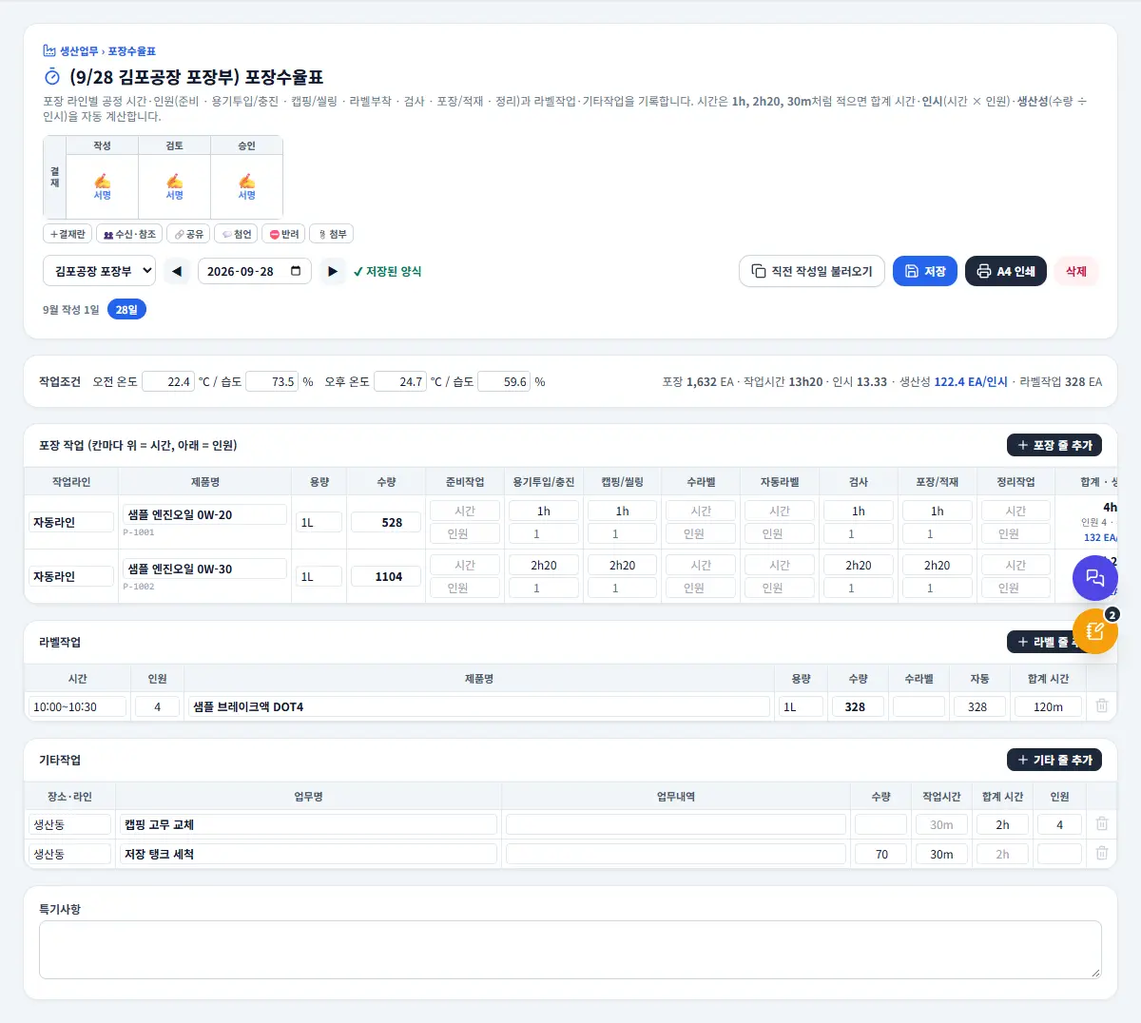
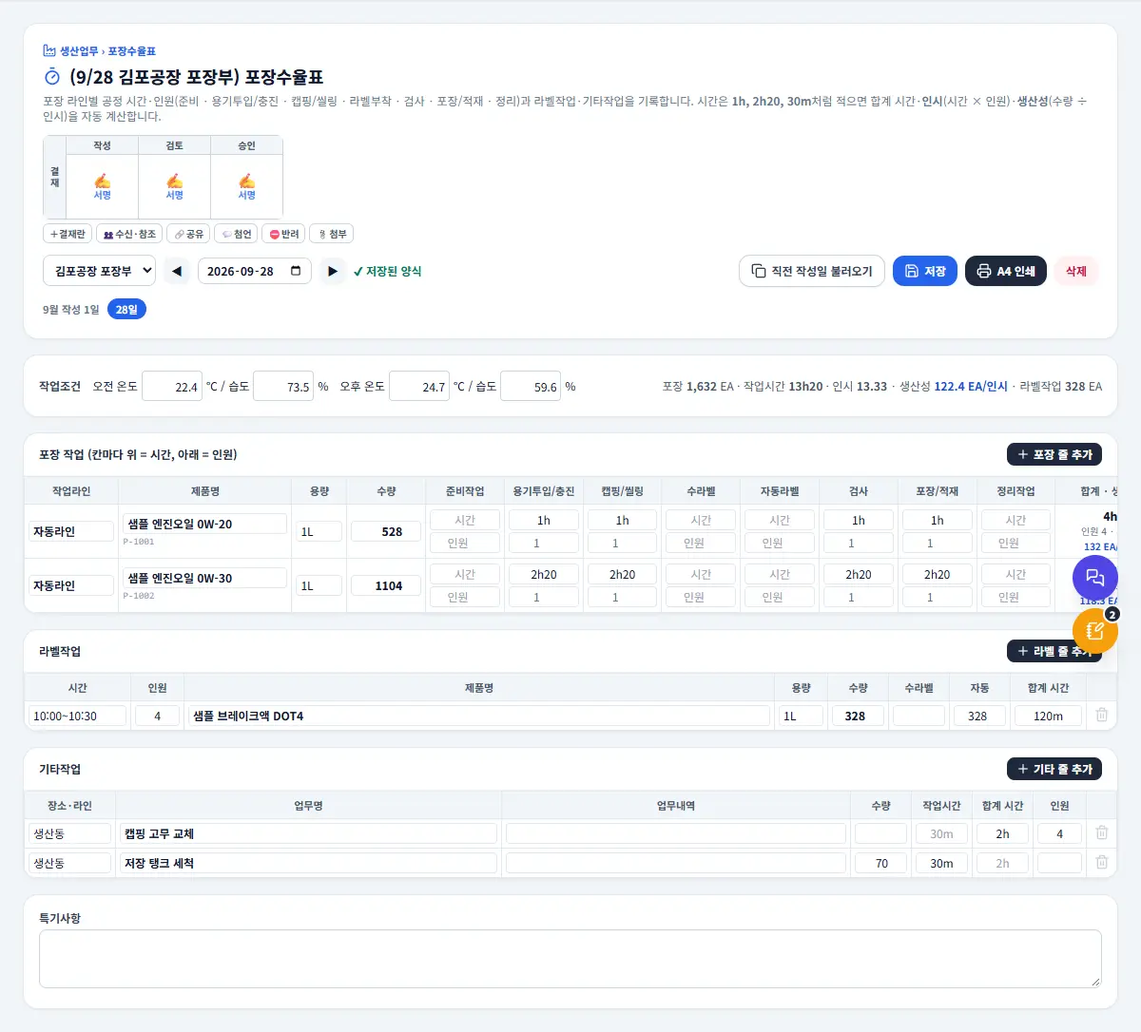
feat: 초·중·종물 검사·포장수율표 스마트폰·태블릿 화면 (카드 배치·큰 입력 칸·아래 고정 저장)

diff --git a/src/components/WorkForms.js b/src/components/WorkForms.js
@@ -20,6 +20,11 @@ const STEPS = [['prep', '준비작업'], ['fill', '용기투입/충진'], ['cap'
 const uid = () => `${Date.now().toString(36)}${Math.random().toString(36).slice(2, 6)}`;
 const dayAdd = (d, n) => { const t = new Date(`${d}T00:00:00`); t.setDate(t.getDate() + n); return localDateStr(t); };
 const inCls = 'w-full bg-white border border-slate-200 rounded px-1 py-0.5 text-xs focus:ring-2 focus:ring-blue-500 focus:outline-none';
+// 스마트폰·태블릿(폭 1024px 미만): 손가락으로 누르기 쉬운 큰 입력 칸 + 카드 배치
+const MOBILE_MQ = '(max-width: 1023px)';
+const mCls = 'w-full h-10 bg-white border border-slate-300 rounded-lg px-2 text-sm focus:ring-2 focus:ring-blue-500 focus:outline-none';
+const MW = 'flex items-center'; // 중량 칸 틀
+const mField = (label, inner, cls = '') => `<label class="block ${cls}"><span class="block text-[11px] font-bold text-slate-500 mb-0.5">${label}</span>${inner}</label>`;
 const numVal = (v) => (v === '' || v === null || v === undefined ? '' : Number(v));
 // data-k 경로('w.init.0')로 값 넣기
 const setPath = (obj, path, val) => {
@@ -62,7 +67,7 @@ const renderFormShell = (container, { showToast = () => {} } = {}, cfg) => {
                 <div class="min-w-0">
                     <div class="text-[11px] font-black text-blue-600 flex items-center gap-1"><i data-lucide="factory" class="w-3.5 h-3.5"></i>생산업무 › ${esc(title)}</div>
                     <h2 class="text-lg font-black text-slate-900 mt-1 flex items-center gap-2"><i data-lucide="${cfg.icon}" class="w-5 h-5 text-blue-600"></i><span id="wf-title"></span></h2>
-                    <p class="text-xs text-slate-500 mt-1">${cfg.desc}</p>
+                    <p class="hidden md:block text-xs text-slate-500 mt-1">${cfg.desc}</p>
                 </div>
                 <div id="wf-appr"></div>
             </div>
@@ -80,7 +85,11 @@ const renderFormShell = (container, { showToast = () => {} } = {}, cfg) => {
             </div>
             <div id="wf-dates" class="flex flex-wrap gap-1"></div>
         </div>
-        <div id="wf-body" class="space-y-4"></div>
+        <div id="wf-body" class="space-y-4 pb-20 lg:pb-0"></div>
+        ${canWrite ? `<div id="wf-mbar" class="lg:hidden fixed bottom-0 inset-x-0 z-30 bg-white/95 backdrop-blur border-t border-slate-200 px-3 py-2 pr-24 flex items-center gap-2 shadow-[0_-4px_12px_rgba(0,0,0,0.06)]">
+            <span data-bar-state class="text-xs font-bold whitespace-nowrap"></span>
+            <button type="button" data-bar-save class="flex-1 h-11 rounded-xl text-sm font-black text-white bg-blue-600">💾 저장</button>
+        </div>` : ''}
     </section>`;
     const $ = (s) => container.querySelector(s);
 
@@ -94,8 +103,15 @@ const renderFormShell = (container, { showToast = () => {} } = {}, cfg) => {
         $('#wf-dates').innerHTML = `<span class="text-[11px] text-slate-500 font-bold mr-1 self-center">${Number(ym.slice(5))}월 작성 ${inMonth.length}일</span>` + inMonth.slice().reverse().map(d => `<button type="button" data-d="${d}" class="px-2 py-0.5 rounded-full text-[11px] font-bold border ${d === date ? 'bg-blue-600 border-blue-600 text-white' : 'bg-white border-slate-300 text-slate-600 hover:border-slate-500'}">${Number(d.slice(8))}일</button>`).join('');
         container.querySelectorAll('#wf-dates [data-d]').forEach(b => b.addEventListener('click', () => go(b.dataset.d)));
     };
-    const markDirty = () => { if (!dirty) { dirty = true; paintHead(); } };
-    const api = { markDirty, get doc() { return doc; }, rerender: () => draw(), showToast, canWrite, get site() { return site; }, get date() { return date; } };
+    const markDirty = () => { if (!dirty) { dirty = true; paintHead(); } paintBar(); };
+    // 스마트폰·태블릿 아래쪽 고정 저장 줄 (저장 안 한 변경이 있으면 강조)
+    const paintBar = () => {
+        const bar = $('#wf-mbar');
+        if (!bar) return;
+        bar.querySelector('[data-bar-state]').innerHTML = dirty ? '<span class="text-rose-600">● 저장 안 한 변경</span>' : exists ? '<span class="text-emerald-700">✔ 저장됨</span>' : '<span class="text-amber-700">새 양식</span>';
+        bar.querySelector('[data-bar-save]').className = `flex-1 h-11 rounded-xl text-sm font-black text-white ${dirty ? 'bg-blue-600 animate-pulse' : 'bg-blue-600/80'}`;
+    };
+    const api = { markDirty, get doc() { return doc; }, rerender: () => draw(), showToast, canWrite, get site() { return site; }, get date() { return date; }, get mobile() { return window.matchMedia(MOBILE_MQ).matches; } };
     const draw = () => {
         // 다시 그릴 때마다 새 요소에 그린다 (입력 이벤트가 겹쳐 붙지 않게)
         const holder = document.createElement('div');
@@ -104,6 +120,7 @@ const renderFormShell = (container, { showToast = () => {} } = {}, cfg) => {
         cfg.body(holder, doc, api);
         if (!canWrite) holder.querySelectorAll('input, select, textarea').forEach(el => { el.disabled = true; });
         paintHead();
+        paintBar();
         mountApprovalBox($('#wf-appr'), apprDoc(), { showToast });
         createIcons({ icons });
     };
@@ -155,6 +172,11 @@ const renderFormShell = (container, { showToast = () => {} } = {}, cfg) => {
         } catch (err) { alert(err.message); }
         e.target.disabled = false;
     });
+    $('#wf-mbar [data-bar-save]')?.addEventListener('click', () => $('#wf-save')?.click());
+    // 화면 폭이 스마트폰·태블릿 ↔ PC로 바뀌면(가로·세로 돌리기 포함) 배치를 다시 그린다 (입력한 내용은 doc에 있어 그대로)
+    const mq = window.matchMedia(MOBILE_MQ);
+    const onMq = () => { if (!container.contains($('#wf-body'))) { mq.removeEventListener('change', onMq); return; } if (doc) draw(); };
+    mq.addEventListener('change', onMq);
     $('#wf-print').addEventListener('click', () => cfg.print(doc, { site, date, title, approvals: apprDoc().roles, approvalKey: apprDoc().key }));
     $('#wf-del')?.addEventListener('click', async () => {
         if (!exists) { alert('저장된 양식이 없습니다.'); return; }
@@ -222,13 +244,48 @@ export const renderInspectLog = (container, opts = {}) => {
                 const s = sums();
                 host.querySelector('#il-sum').innerHTML = `작업 ${doc.rows.length}건 · 양품 <b>${fmtQty(s.good)}</b>${s.box ? ` (${fmtQty(s.box)} BOX)` : ''} · 불량 <b class="${s.def ? 'text-rose-600' : ''}">${fmtQty(s.def)}</b> · 중량 이탈 <b class="${s.out ? 'text-rose-600' : 'text-emerald-700'}">${s.out}</b>회 · 상태 NG <b class="${s.ng ? 'text-rose-600' : 'text-emerald-700'}">${s.ng}</b>`;
             };
+            // 스마트폰·태블릿: 작업 한 건 = 카드 한 장 (입력 칸 data-r/data-k는 표와 같아 입력 처리 공용)
+            const mobileRows = () => `<div class="p-3 space-y-3 bg-slate-50">${doc.rows.map((r, ri) => `
+                <div class="bg-white rounded-2xl border border-slate-200 shadow-sm p-3 space-y-3">
+                    <div class="flex items-center justify-between"><b class="text-sm text-slate-900">작업 ${ri + 1}${r.product ? ` · ${esc(r.product)}` : ''}</b>${api.canWrite ? `<button type="button" data-del="${ri}" class="px-2.5 py-1.5 rounded-lg bg-rose-50 text-rose-600 text-xs font-bold">삭제</button>` : ''}</div>
+                    <div class="grid grid-cols-2 gap-2">
+                        ${mField('라인명', `<input data-r="${ri}" data-k="line" value="${esc(r.line)}" placeholder="자동라인" class="${mCls} font-bold" />`)}
+                        ${mField('작업시간', `<input data-r="${ri}" data-k="time" value="${esc(r.time)}" placeholder="9:00~10:00" class="${mCls}" />`)}
+                        ${mField('작업자', `<input data-r="${ri}" data-k="workers" value="${esc(r.workers)}" placeholder="이름, 이름" class="${mCls}" />`, 'col-span-2')}
+                        ${mField('제품명 (검색)', `<input data-r="${ri}" data-k="product" value="${esc(r.product)}" placeholder="제품 검색" class="il-prod ${mCls} font-bold" /><span class="text-[10px] text-slate-400 font-mono">${esc(r.itemCode || '')}</span>`, 'col-span-2')}
+                        ${mField('용량', `<input data-r="${ri}" data-k="cap" value="${esc(r.cap)}" placeholder="1L" class="${mCls}" />`)}
+                        ${mField('비중', `<input type="number" inputmode="decimal" step="0.001" data-r="${ri}" data-k="sg" value="${esc(r.sg)}" class="${mCls} text-right" />`)}
+                        ${mField('원료(원액)명', `<input data-r="${ri}" data-k="rawName" value="${esc(r.rawName)}" class="${mCls}" />`)}
+                        ${mField('원료 Lot', `<input data-r="${ri}" data-k="rawLot" value="${esc(r.rawLot)}" class="${mCls} font-mono" />`)}
+                        ${mField('기준중량(g) · 자동', `<input type="number" inputmode="decimal" step="0.1" data-r="${ri}" data-k="std" value="${esc(r.std)}" class="${mCls} text-right font-black" />`, 'col-span-2')}
+                    </div>
+                    <div class="rounded-xl border border-slate-200 overflow-hidden">
+                        <div class="grid grid-cols-[52px_1fr_1fr_1fr_70px] bg-slate-100 text-[11px] font-bold text-slate-600 text-center"><span class="py-1.5">구분</span><span class="py-1.5">1회</span><span class="py-1.5">2회</span><span class="py-1.5">3회</span><span class="py-1.5">상태</span></div>
+                        ${STAGES.map(([st, lb]) => `<div class="grid grid-cols-[52px_1fr_1fr_1fr_70px] border-t border-slate-100 items-stretch">
+                            <span class="flex items-center justify-center text-xs font-black bg-slate-50">${lb}</span>
+                            ${[0, 1, 2].map(i => `<span data-wcell="${ri}-${st}-${i}" data-base="border-l border-slate-100 ${MW}" class="border-l border-slate-100 ${MW} ${cellCls(r, st, i)}"><input type="number" inputmode="decimal" step="0.1" data-r="${ri}" data-k="w.${st}.${i}" value="${esc(r.w?.[st]?.[i] ?? '')}" placeholder="g" class="w-full h-11 m-0.5 rounded-md bg-slate-50/70 border border-slate-200 px-1 text-center text-base font-bold placeholder:text-slate-300 focus:outline-none focus:ring-2 focus:ring-blue-500" /></span>`).join('')}
+                            <span class="border-l border-slate-100 p-1"><select data-r="${ri}" data-k="st.${st}" data-base="w-full h-9 rounded-lg border border-slate-300 bg-white text-sm" class="w-full h-9 rounded-lg border border-slate-300 bg-white text-sm font-bold ${r.st?.[st] === 'NG' ? 'text-rose-600' : 'text-emerald-700'}"><option ${r.st?.[st] !== 'NG' ? 'selected' : ''}>OK</option><option ${r.st?.[st] === 'NG' ? 'selected' : ''}>NG</option></select></span>
+                        </div>`).join('')}
+                    </div>
+                    <div class="grid grid-cols-2 gap-2">
+                        ${mField('제품 Lot', `<input data-r="${ri}" data-k="prodLot" value="${esc(r.prodLot)}" class="${mCls} font-mono" />`, 'col-span-2')}
+                        ${mField('양품', `<input type="number" inputmode="numeric" min="0" data-r="${ri}" data-k="good" value="${esc(r.good)}" class="${mCls} text-right font-black" />`)}
+                        ${mField('BOX', `<input type="number" inputmode="numeric" min="0" data-r="${ri}" data-k="box" value="${esc(r.box)}" class="${mCls} text-right" />`)}
+                        ${mField('불량', `<input type="number" inputmode="numeric" min="0" data-r="${ri}" data-k="defect" value="${esc(r.defect)}" class="${mCls} text-right font-black text-rose-600" />`)}
+                        ${mField('불량 유형', `<input data-r="${ri}" data-k="defectType" list="il-types" value="${esc(r.defectType)}" class="${mCls}" />`)}
+                    </div>
+                    ${r.qcId ? '<div class="text-[11px] text-rose-600 font-bold">공정 불량 기록 ✔</div>' : ''}
+                </div>`).join('')}
+                ${api.canWrite ? '<button type="button" data-add-bottom class="w-full py-3 rounded-2xl border-2 border-dashed border-slate-300 text-slate-600 font-black text-sm">＋ 작업 추가</button>' : ''}
+            </div>`;
             host.innerHTML = `
             <div class="bg-white rounded-2xl border border-slate-200 shadow-sm overflow-hidden">
                 <div class="px-4 py-2.5 border-b border-slate-100 flex flex-wrap items-center gap-3 text-xs">
                     <span id="il-sum" class="text-slate-600"></span>
-                    <label class="ml-auto flex items-center gap-1 font-bold text-slate-600">허용 범위 기준중량 ± <input type="number" min="0" step="0.1" id="il-tol" value="${tol}" class="w-14 border border-slate-300 rounded px-1 py-0.5 text-right" />%</label>
+                    <label class="ml-auto flex items-center gap-1 font-bold text-slate-600">허용 범위 기준중량 ± <input type="number" inputmode="decimal" min="0" step="0.1" id="il-tol" value="${tol}" inputmode="decimal" class="w-16 h-8 border border-slate-300 rounded px-1 text-right" />%</label>
                     ${api.canWrite ? addRowBtn('il-add', '작업 줄 추가') : ''}
                 </div>
+                ${api.mobile ? `${mobileRows()}<span id="il-tol-h" class="hidden">${tol}</span>` : `
                 <div class="overflow-x-auto">
                 <table class="w-full text-xs min-w-[1500px] border-collapse">
                     <thead class="bg-slate-100 text-slate-600 text-[11px]"><tr>
@@ -253,15 +310,15 @@ export const renderInspectLog = (container, opts = {}) => {
                         <td class="p-1 border border-slate-200 align-middle" rowspan="3"><input type="number" step="0.001" data-r="${ri}" data-k="sg" value="${esc(r.sg)}" class="${inCls} text-right" /></td>
                         <td class="p-1 border border-slate-200 align-middle" rowspan="3"><input type="number" step="0.1" data-r="${ri}" data-k="std" value="${esc(r.std)}" class="${inCls} text-right font-black" title="비중·용량을 넣으면 자동 계산 (직접 고칠 수 있음)" /></td>` : ''}
                         <td class="p-1 border border-slate-200 text-center font-bold bg-slate-50">${stLabel}</td>
-                        ${[0, 1, 2].map(i => `<td class="p-0.5 border border-slate-200 ${cellCls(r, st, i)}" data-wcell="${ri}-${st}-${i}"><input type="number" step="0.1" data-r="${ri}" data-k="w.${st}.${i}" value="${esc(r.w?.[st]?.[i] ?? '')}" class="w-full bg-transparent px-1 py-0.5 text-right text-xs focus:outline-none" /></td>`).join('')}
-                        <td class="p-0.5 border border-slate-200"><select data-r="${ri}" data-k="st.${st}" class="${inCls} font-bold ${r.st?.[st] === 'NG' ? 'text-rose-600' : 'text-emerald-700'}"><option ${r.st?.[st] !== 'NG' ? 'selected' : ''}>OK</option><option ${r.st?.[st] === 'NG' ? 'selected' : ''}>NG</option></select></td>
+                        ${[0, 1, 2].map(i => `<td class="p-0.5 border border-slate-200 ${cellCls(r, st, i)}" data-base="p-0.5 border border-slate-200" data-wcell="${ri}-${st}-${i}"><input type="number" step="0.1" data-r="${ri}" data-k="w.${st}.${i}" value="${esc(r.w?.[st]?.[i] ?? '')}" class="w-full bg-transparent px-1 py-0.5 text-right text-xs focus:outline-none" /></td>`).join('')}
+                        <td class="p-0.5 border border-slate-200"><select data-r="${ri}" data-k="st.${st}" data-base="${inCls}" class="${inCls} font-bold ${r.st?.[st] === 'NG' ? 'text-rose-600' : 'text-emerald-700'}"><option ${r.st?.[st] !== 'NG' ? 'selected' : ''}>OK</option><option ${r.st?.[st] === 'NG' ? 'selected' : ''}>NG</option></select></td>
                         ${si === 0 ? `
                         <td class="p-1 border border-slate-200 align-middle" rowspan="3"><input data-r="${ri}" data-k="prodLot" value="${esc(r.prodLot)}" class="${inCls} font-mono" /></td>
                         <td class="p-1 border border-slate-200 align-middle space-y-1" rowspan="3"><input type="number" min="0" data-r="${ri}" data-k="good" value="${esc(r.good)}" placeholder="양품" class="${inCls} text-right font-black" /><div class="flex items-center gap-1"><input type="number" min="0" data-r="${ri}" data-k="box" value="${esc(r.box)}" placeholder="BOX" class="${inCls} text-right" /><span class="text-[10px] text-slate-400">BOX</span></div></td>
                         <td class="p-1 border border-slate-200 align-middle space-y-1" rowspan="3"><input type="number" min="0" data-r="${ri}" data-k="defect" value="${esc(r.defect)}" placeholder="불량" class="${inCls} text-right font-black text-rose-600" /><input data-r="${ri}" data-k="defectType" list="il-types" value="${esc(r.defectType)}" placeholder="불량 유형" class="${inCls}" />${r.qcId ? '<div class="text-[10px] text-rose-600 font-bold">공정 불량 기록 ✔</div>' : ''}</td>
                         <td class="p-1 border border-slate-200 text-center align-middle" rowspan="3">${api.canWrite ? `<button type="button" data-del="${ri}" class="text-slate-300 hover:text-rose-600" title="줄 삭제"><i data-lucide="trash-2" class="w-4 h-4"></i></button>` : ''}</td>` : ''}
                     </tr>`).join('')).join('')}</tbody>
-                </table></div>
+                </table></div>`}
                 <datalist id="il-types">${defectTypes.map(t => `<option value="${esc(t)}"></option>`).join('')}</datalist>
             </div>
             <div class="bg-white p-4 rounded-2xl border border-slate-200 shadow-sm">
@@ -276,9 +333,9 @@ export const renderInspectLog = (container, opts = {}) => {
                     if (std !== '') { r.std = std; const stdEl = host.querySelector(`[data-r="${ri}"][data-k="std"]`); if (stdEl) stdEl.value = std; }
                 }
                 if (key.startsWith('w.') || key === 'sg' || key === 'cap' || key === 'std') {
-                    STAGES.forEach(([st]) => [0, 1, 2].forEach(i => { const c = host.querySelector(`[data-wcell="${ri}-${st}-${i}"]`); if (c) c.className = `p-0.5 border border-slate-200 ${cellCls(r, st, i)}`; }));
+                    STAGES.forEach(([st]) => [0, 1, 2].forEach(i => { const c = host.querySelector(`[data-wcell="${ri}-${st}-${i}"]`); if (c) c.className = `${c.dataset.base} ${cellCls(r, st, i)}`; }));
                 }
-                if (key.startsWith('st.')) el.className = `${inCls} font-bold ${el.value === 'NG' ? 'text-rose-600' : 'text-emerald-700'}`;
+                if (key.startsWith('st.')) el.className = `${el.dataset.base} font-bold ${el.value === 'NG' ? 'text-rose-600' : 'text-emerald-700'}`;
                 paintSums();
                 api.markDirty();
             });
@@ -292,7 +349,14 @@ export const renderInspectLog = (container, opts = {}) => {
             }, (it) => it.category === '완제품' || !it.category));
             host.querySelector('#il-tol').addEventListener('input', (e) => { doc.tol = Number(e.target.value) || 0; host.querySelector('#il-tol-h').textContent = doc.tol; api.markDirty(); api.rerender(); });
             host.querySelector('#il-remarks').addEventListener('input', (e) => { doc.remarks = e.target.value; api.markDirty(); });
-            host.querySelector('#il-add')?.addEventListener('click', () => { doc.rows.push(blankInspectRow(doc.rows[doc.rows.length - 1])); api.markDirty(); api.rerender(); });
+            const addRow = () => { doc.rows.push(blankInspectRow(doc.rows[doc.rows.length - 1])); api.markDirty(); api.rerender(); };
+            host.querySelector('#il-add')?.addEventListener('click', addRow);
+            host.querySelector('[data-add-bottom]')?.addEventListener('click', () => {
+                addRow();
+                // 새 카드로 스크롤
+                const cards = document.querySelectorAll('#wf-body [data-k="line"]');
+                cards[cards.length - 1]?.scrollIntoView({ behavior: 'smooth', block: 'start' });
+            });
             host.querySelectorAll('[data-del]').forEach(b => b.addEventListener('click', () => {
                 const r = doc.rows[Number(b.dataset.del)];
                 if (!confirm(`이 작업 줄(${r.product || '제품 없음'})을 지울까요?${r.qcId ? '\n저장하면 연결된 공정 불량 기록도 지워집니다.' : ''}`)) return;
@@ -385,16 +449,63 @@ export const renderYieldLog = (container, opts = {}) => {
                 });
             };
             const inp = (k, ri, v, extra = '', cls = '') => `<input data-r="${ri}" data-k="${k}" value="${esc(v ?? '')}" ${extra} class="${inCls} ${cls}" />`;
-            host.innerHTML = `
+            // 스마트폰·태블릿용 큰 입력 칸 (data-r/data-k는 표와 같음)
+            const mi = (k, ri, v, extra = '', cls = '') => `<input data-r="${ri}" data-k="${k}" value="${esc(v ?? '')}" ${extra} class="${mCls} ${cls}" />`;
+            const delBtn = (sec, ri) => (api.canWrite ? `<button type="button" data-del="${sec}:${ri}" class="px-2.5 py-1.5 rounded-lg bg-rose-50 text-rose-600 text-xs font-bold">삭제</button>` : '');
+            const addBottom = (sec, label) => (api.canWrite ? `<button type="button" data-add-sec="${sec}" class="w-full py-3 rounded-2xl border-2 border-dashed border-slate-300 text-slate-600 font-black text-sm">＋ ${label}</button>` : '');
+            const packCards = () => `<div class="p-3 space-y-3 bg-slate-50">${doc.pack.map((r, ri) => `
+                <div class="bg-white rounded-2xl border border-slate-200 shadow-sm p-3 space-y-3">
+                    <div class="flex items-center justify-between"><b class="text-sm text-slate-900">포장 ${ri + 1}${r.product ? ` · ${esc(r.product)}` : ''}</b>${delBtn('pack', ri)}</div>
+                    <div class="grid grid-cols-2 gap-2">
+                        ${mField('작업라인', mi('line', ri, r.line, 'placeholder="자동라인"', 'font-bold'))}
+                        ${mField('수량', mi('qty', ri, r.qty, 'type="number" inputmode="numeric" min="0"', 'text-right font-black'))}
+                        ${mField('제품명 (검색)', `${mi('product', ri, r.product, 'placeholder="제품 검색"', 'yl-prod font-bold')}<span class="text-[10px] text-slate-400 font-mono">${esc(r.itemCode || '')}</span>`, 'col-span-2')}
+                        ${mField('용량', mi('cap', ri, r.cap))}
+                    </div>
+                    <div class="rounded-xl border border-slate-200 overflow-hidden">
+                        <div class="grid grid-cols-[1fr_96px_64px] bg-slate-100 text-[11px] font-bold text-slate-600"><span class="px-2 py-1.5">공정</span><span class="py-1.5 text-center">시간</span><span class="py-1.5 text-center">인원</span></div>
+                        ${STEPS.map(([k, l]) => `<div class="grid grid-cols-[1fr_96px_64px] border-t border-slate-100 items-center">
+                            <span class="px-2 text-xs font-bold text-slate-700">${l}</span>
+                            <span class="p-1"><input data-r="${ri}" data-k="steps.${k}.t" value="${esc(r.steps?.[k]?.t ?? '')}" list="yl-times" placeholder="1h20" class="w-full h-10 border border-slate-300 rounded-lg px-1 text-center text-sm" /></span>
+                            <span class="p-1"><input type="number" inputmode="numeric" min="0" data-r="${ri}" data-k="steps.${k}.p" value="${esc(r.steps?.[k]?.p ?? '')}" class="w-full h-10 border border-slate-300 rounded-lg px-1 text-center text-sm" /></span>
+                        </div>`).join('')}
+                    </div>
+                    <div class="p-2 rounded-xl bg-blue-50 text-center text-sm" data-tot="${ri}"></div>
+                    ${mField('비고', `<textarea data-r="${ri}" data-k="note" rows="2" class="w-full border border-slate-300 rounded-lg px-2 py-1.5 text-sm" placeholder="예: 라벨 인쇄 불량 10EA">${esc(r.note || '')}</textarea>`)}
+                </div>`).join('')}${addBottom('pack', '포장 작업 추가')}</div>`;
+            const labelCards = () => `<div class="p-3 space-y-3 bg-slate-50">${doc.label.map((r, ri) => `
+                <div class="bg-white rounded-2xl border border-slate-200 shadow-sm p-3 space-y-2">
+                    <div class="flex items-center justify-between"><b class="text-sm text-slate-900">라벨 ${ri + 1}</b>${delBtn('label', ri)}</div>
+                    <div class="grid grid-cols-2 gap-2">
+                        ${mField('시간', mi('time', ri, r.time, 'placeholder="10:00~10:30"'))}${mField('인원', mi('people', ri, r.people, 'type="number" inputmode="numeric" min="0"', 'text-right'))}
+                        ${mField('제품명 (검색)', mi('product', ri, r.product, 'placeholder="제품 검색"', 'yl-lprod font-bold'), 'col-span-2')}
+                        ${mField('용량', mi('cap', ri, r.cap))}${mField('수량', mi('qty', ri, r.qty, 'type="number" inputmode="numeric" min="0"', 'text-right font-black'))}
+                        ${mField('수라벨', mi('manual', ri, r.manual, 'type="number" inputmode="numeric" min="0"', 'text-right'))}${mField('자동', mi('auto', ri, r.auto, 'type="number" inputmode="numeric" min="0"', 'text-right'))}
+                        ${mField('합계 시간', mi('total', ri, r.total, 'list="yl-times" placeholder="120m"'), 'col-span-2')}
+                    </div>
+                </div>`).join('')}${addBottom('label', '라벨작업 추가')}</div>`;
+            const otherCards = () => `<div class="p-3 space-y-3 bg-slate-50">${doc.other.map((r, ri) => `
+                <div class="bg-white rounded-2xl border border-slate-200 shadow-sm p-3 space-y-2">
+                    <div class="flex items-center justify-between"><b class="text-sm text-slate-900">기타 ${ri + 1}</b>${delBtn('other', ri)}</div>
+                    <div class="grid grid-cols-2 gap-2">
+                        ${mField('장소·라인', mi('place', ri, r.place))}${mField('업무명', mi('task', ri, r.task, '', 'font-bold'))}
+                        ${mField('업무내역', mi('detail', ri, r.detail), 'col-span-2')}
+                        ${mField('수량', mi('qty', ri, r.qty, 'type="number" inputmode="numeric" min="0"', 'text-right'))}${mField('인원', mi('people', ri, r.people, 'type="number" inputmode="numeric" min="0"', 'text-right'))}
+                        ${mField('작업시간', mi('time', ri, r.time, 'list="yl-times" placeholder="30m"'))}${mField('합계 시간', mi('total', ri, r.total, 'list="yl-times" placeholder="2h"'))}
+                    </div>
+                </div>`).join('')}${addBottom('other', '기타작업 추가')}</div>`;
+            const timeList = `<datalist id="yl-times">${['10m', '20m', '30m', '40m', '50m', '1h', '1h10', '1h20', '1h30', '1h40', '1h50', '2h', '2h20', '2h30', '3h', '3h30', '4h', '5h', '6h', '8h'].map(t => `<option value="${t}"></option>`).join('')}</datalist>`;
+            host.innerHTML = `${timeList}`;
+            host.innerHTML += `
             <div class="bg-white p-4 rounded-2xl border border-slate-200 shadow-sm flex flex-wrap items-center gap-3 text-xs">
                 <b class="text-slate-700">작업조건</b>
-                <label class="flex items-center gap-1">오전 온도 <input id="yl-amT" value="${esc(doc.cond.amT ?? '')}" class="w-14 border border-slate-300 rounded px-1 py-0.5 text-right" />℃ / 습도 <input id="yl-amH" value="${esc(doc.cond.amH ?? '')}" class="w-14 border border-slate-300 rounded px-1 py-0.5 text-right" />%</label>
-                <label class="flex items-center gap-1">오후 온도 <input id="yl-pmT" value="${esc(doc.cond.pmT ?? '')}" class="w-14 border border-slate-300 rounded px-1 py-0.5 text-right" />℃ / 습도 <input id="yl-pmH" value="${esc(doc.cond.pmH ?? '')}" class="w-14 border border-slate-300 rounded px-1 py-0.5 text-right" />%</label>
+                <label class="flex items-center gap-1">오전 온도 <input id="yl-amT" value="${esc(doc.cond.amT ?? '')}" inputmode="decimal" class="w-16 h-8 border border-slate-300 rounded px-1 text-right" />℃ / 습도 <input id="yl-amH" value="${esc(doc.cond.amH ?? '')}" inputmode="decimal" class="w-16 h-8 border border-slate-300 rounded px-1 text-right" />%</label>
+                <label class="flex items-center gap-1">오후 온도 <input id="yl-pmT" value="${esc(doc.cond.pmT ?? '')}" inputmode="decimal" class="w-16 h-8 border border-slate-300 rounded px-1 text-right" />℃ / 습도 <input id="yl-pmH" value="${esc(doc.cond.pmH ?? '')}" inputmode="decimal" class="w-16 h-8 border border-slate-300 rounded px-1 text-right" />%</label>
                 <span id="yl-sum" class="ml-auto text-slate-600"></span>
             </div>
-            <div class="bg-white rounded-2xl border border-slate-200 shadow-sm overflow-hidden">
-                <div class="px-4 py-2.5 border-b border-slate-100 flex items-center justify-between text-xs"><b class="text-slate-800">포장 작업 (칸마다 위 = 시간, 아래 = 인원)</b>${api.canWrite ? addRowBtn('yl-add-pack', '포장 줄 추가') : ''}</div>
-                <div class="overflow-x-auto"><table class="w-full text-xs min-w-[1400px] border-collapse">
+            <div data-sec="pack" class="bg-white rounded-2xl border border-slate-200 shadow-sm overflow-hidden">
+                <div class="px-4 py-2.5 border-b border-slate-100 flex items-center justify-between text-xs"><b class="text-slate-800">${api.mobile ? '포장 작업' : '포장 작업 (칸마다 위 = 시간, 아래 = 인원)'}</b>${api.canWrite ? addRowBtn('yl-add-pack', '포장 줄 추가') : ''}</div>
+                ${api.mobile ? packCards() : `<div class="overflow-x-auto"><table class="w-full text-xs min-w-[1400px] border-collapse">
                     <thead class="bg-slate-100 text-slate-600 text-[11px]"><tr><th class="p-1.5 border border-slate-200 w-24">작업라인</th><th class="p-1.5 border border-slate-200 w-44">제품명</th><th class="p-1.5 border border-slate-200 w-14">용량</th><th class="p-1.5 border border-slate-200 w-20">수량</th>
                         ${STEPS.map(([, l]) => `<th class="p-1.5 border border-slate-200 w-20">${l}</th>`).join('')}<th class="p-1.5 border border-slate-200 w-28">합계 · 생산성</th><th class="p-1.5 border border-slate-200 w-40">비고</th><th class="p-1.5 border border-slate-200 w-8"></th></tr></thead>
                     <tbody>${doc.pack.map((r, ri) => `<tr>
@@ -405,23 +516,23 @@ export const renderYieldLog = (container, opts = {}) => {
                         ${STEPS.map(([k]) => `<td class="p-1 border border-slate-200 space-y-0.5">${inp(`steps.${k}.t`, ri, r.steps?.[k]?.t, 'placeholder="시간"', 'text-center')}${inp(`steps.${k}.p`, ri, r.steps?.[k]?.p, 'type="number" min="0" placeholder="인원"', 'text-center text-slate-500')}</td>`).join('')}
                         <td class="p-1 border border-slate-200 text-center" data-tot="${ri}"></td>
                         <td class="p-1 border border-slate-200"><textarea data-r="${ri}" data-k="note" rows="2" class="${inCls}" placeholder="예: 라벨 인쇄 불량 10EA">${esc(r.note || '')}</textarea></td>
-                        <td class="p-1 border border-slate-200 text-center">${api.canWrite ? `<button type="button" data-del="pack:${ri}" class="text-slate-300 hover:text-rose-600"><i data-lucide="trash-2" class="w-4 h-4"></i></button>` : ''}</td></tr>`).join('')}</tbody></table></div>
+                        <td class="p-1 border border-slate-200 text-center">${api.canWrite ? `<button type="button" data-del="pack:${ri}" class="text-slate-300 hover:text-rose-600"><i data-lucide="trash-2" class="w-4 h-4"></i></button>` : ''}</td></tr>`).join('')}</tbody></table></div>`}
             </div>
             <div class="grid grid-cols-1 2xl:grid-cols-2 gap-4">
-                <div class="bg-white rounded-2xl border border-slate-200 shadow-sm overflow-hidden">
+                <div data-sec="label" class="bg-white rounded-2xl border border-slate-200 shadow-sm overflow-hidden">
                     <div class="px-4 py-2.5 border-b border-slate-100 flex items-center justify-between text-xs"><b class="text-slate-800">라벨작업</b>${api.canWrite ? addRowBtn('yl-add-label', '라벨 줄 추가') : ''}</div>
-                    <div class="overflow-x-auto"><table class="w-full text-xs min-w-[760px] border-collapse"><thead class="bg-slate-100 text-slate-600 text-[11px]"><tr><th class="p-1.5 border border-slate-200 w-28">시간</th><th class="p-1.5 border border-slate-200 w-14">인원</th><th class="p-1.5 border border-slate-200">제품명</th><th class="p-1.5 border border-slate-200 w-14">용량</th><th class="p-1.5 border border-slate-200 w-16">수량</th><th class="p-1.5 border border-slate-200 w-16">수라벨</th><th class="p-1.5 border border-slate-200 w-16">자동</th><th class="p-1.5 border border-slate-200 w-20">합계 시간</th><th class="p-1.5 border border-slate-200 w-8"></th></tr></thead>
+                    ${api.mobile ? labelCards() : `<div class="overflow-x-auto"><table class="w-full text-xs min-w-[760px] border-collapse"><thead class="bg-slate-100 text-slate-600 text-[11px]"><tr><th class="p-1.5 border border-slate-200 w-28">시간</th><th class="p-1.5 border border-slate-200 w-14">인원</th><th class="p-1.5 border border-slate-200">제품명</th><th class="p-1.5 border border-slate-200 w-14">용량</th><th class="p-1.5 border border-slate-200 w-16">수량</th><th class="p-1.5 border border-slate-200 w-16">수라벨</th><th class="p-1.5 border border-slate-200 w-16">자동</th><th class="p-1.5 border border-slate-200 w-20">합계 시간</th><th class="p-1.5 border border-slate-200 w-8"></th></tr></thead>
                     <tbody>${doc.label.map((r, ri) => `<tr><td class="p-1 border border-slate-200">${inp('time', ri, r.time, 'placeholder="10:00~10:30"')}</td><td class="p-1 border border-slate-200">${inp('people', ri, r.people, 'type="number" min="0"', 'text-right')}</td>
                         <td class="p-1 border border-slate-200">${inp('product', ri, r.product, 'placeholder="제품 검색"', 'yl-lprod font-bold')}</td><td class="p-1 border border-slate-200">${inp('cap', ri, r.cap)}</td><td class="p-1 border border-slate-200">${inp('qty', ri, r.qty, 'type="number" min="0"', 'text-right font-black')}</td>
                         <td class="p-1 border border-slate-200">${inp('manual', ri, r.manual, 'type="number" min="0"', 'text-right')}</td><td class="p-1 border border-slate-200">${inp('auto', ri, r.auto, 'type="number" min="0"', 'text-right')}</td><td class="p-1 border border-slate-200">${inp('total', ri, r.total, 'placeholder="120m"', 'text-center')}</td>
-                        <td class="p-1 border border-slate-200 text-center">${api.canWrite ? `<button type="button" data-del="label:${ri}" class="text-slate-300 hover:text-rose-600"><i data-lucide="trash-2" class="w-4 h-4"></i></button>` : ''}</td></tr>`).join('') || '<tr><td colspan="9" class="p-4 text-center text-slate-400">라벨작업 없음</td></tr>'}</tbody></table></div>
+                        <td class="p-1 border border-slate-200 text-center">${api.canWrite ? `<button type="button" data-del="label:${ri}" class="text-slate-300 hover:text-rose-600"><i data-lucide="trash-2" class="w-4 h-4"></i></button>` : ''}</td></tr>`).join('') || '<tr><td colspan="9" class="p-4 text-center text-slate-400">라벨작업 없음</td></tr>'}</tbody></table></div>`}
                 </div>
-                <div class="bg-white rounded-2xl border border-slate-200 shadow-sm overflow-hidden">
+                <div data-sec="other" class="bg-white rounded-2xl border border-slate-200 shadow-sm overflow-hidden">
                     <div class="px-4 py-2.5 border-b border-slate-100 flex items-center justify-between text-xs"><b class="text-slate-800">기타작업</b>${api.canWrite ? addRowBtn('yl-add-other', '기타 줄 추가') : ''}</div>
-                    <div class="overflow-x-auto"><table class="w-full text-xs min-w-[760px] border-collapse"><thead class="bg-slate-100 text-slate-600 text-[11px]"><tr><th class="p-1.5 border border-slate-200 w-24">장소·라인</th><th class="p-1.5 border border-slate-200">업무명</th><th class="p-1.5 border border-slate-200">업무내역</th><th class="p-1.5 border border-slate-200 w-16">수량</th><th class="p-1.5 border border-slate-200 w-16">작업시간</th><th class="p-1.5 border border-slate-200 w-16">합계 시간</th><th class="p-1.5 border border-slate-200 w-14">인원</th><th class="p-1.5 border border-slate-200 w-8"></th></tr></thead>
+                    ${api.mobile ? otherCards() : `<div class="overflow-x-auto"><table class="w-full text-xs min-w-[760px] border-collapse"><thead class="bg-slate-100 text-slate-600 text-[11px]"><tr><th class="p-1.5 border border-slate-200 w-24">장소·라인</th><th class="p-1.5 border border-slate-200">업무명</th><th class="p-1.5 border border-slate-200">업무내역</th><th class="p-1.5 border border-slate-200 w-16">수량</th><th class="p-1.5 border border-slate-200 w-16">작업시간</th><th class="p-1.5 border border-slate-200 w-16">합계 시간</th><th class="p-1.5 border border-slate-200 w-14">인원</th><th class="p-1.5 border border-slate-200 w-8"></th></tr></thead>
                     <tbody>${doc.other.map((r, ri) => `<tr><td class="p-1 border border-slate-200">${inp('place', ri, r.place)}</td><td class="p-1 border border-slate-200">${inp('task', ri, r.task, '', 'font-bold')}</td><td class="p-1 border border-slate-200">${inp('detail', ri, r.detail)}</td>
                         <td class="p-1 border border-slate-200">${inp('qty', ri, r.qty, 'type="number" min="0"', 'text-right')}</td><td class="p-1 border border-slate-200">${inp('time', ri, r.time, 'placeholder="30m"', 'text-center')}</td><td class="p-1 border border-slate-200">${inp('total', ri, r.total, 'placeholder="2h"', 'text-center')}</td><td class="p-1 border border-slate-200">${inp('people', ri, r.people, 'type="number" min="0"', 'text-right')}</td>
-                        <td class="p-1 border border-slate-200 text-center">${api.canWrite ? `<button type="button" data-del="other:${ri}" class="text-slate-300 hover:text-rose-600"><i data-lucide="trash-2" class="w-4 h-4"></i></button>` : ''}</td></tr>`).join('') || '<tr><td colspan="8" class="p-4 text-center text-slate-400">기타작업 없음</td></tr>'}</tbody></table></div>
+                        <td class="p-1 border border-slate-200 text-center">${api.canWrite ? `<button type="button" data-del="other:${ri}" class="text-slate-300 hover:text-rose-600"><i data-lucide="trash-2" class="w-4 h-4"></i></button>` : ''}</td></tr>`).join('') || '<tr><td colspan="8" class="p-4 text-center text-slate-400">기타작업 없음</td></tr>'}</tbody></table></div>`}
                 </div>
             </div>
             <div class="bg-white p-4 rounded-2xl border border-slate-200 shadow-sm">
@@ -429,11 +540,11 @@ export const renderYieldLog = (container, opts = {}) => {
                 <textarea id="yl-remarks" rows="3" class="w-full border border-slate-300 rounded-lg px-2 py-1.5 text-xs">${esc(doc.remarks || '')}</textarea>
             </div>`;
             paintTotals();
-            // 표마다 따로 묶는다 (data-r은 표 안의 줄 번호)
-            const tables = host.querySelectorAll('table');
-            bindRows(tables[0], doc.pack, () => { paintTotals(); api.markDirty(); });
-            bindRows(tables[1], doc.label, () => { paintTotals(); api.markDirty(); });
-            bindRows(tables[2], doc.other, () => api.markDirty());
+            // 구역마다 따로 묶는다 (data-r은 구역 안의 줄 번호, 표·카드 공용)
+            bindRows(host.querySelector('[data-sec="pack"]'), doc.pack, () => { paintTotals(); api.markDirty(); });
+            bindRows(host.querySelector('[data-sec="label"]'), doc.label, () => { paintTotals(); api.markDirty(); });
+            bindRows(host.querySelector('[data-sec="other"]'), doc.other, () => api.markDirty());
+            host.querySelectorAll('[data-add-sec]').forEach(b => b.addEventListener('click', () => host.querySelector(`#yl-add-${b.dataset.addSec}`)?.click()));
             const pick = (sel, list) => host.querySelectorAll(sel).forEach(el => attachItemPicker(el, (it) => {
                 const r = list[Number(el.dataset.r)];
                 r.product = it.name; r.itemCode = it.code;

diff --git a/src/data/manualContent.js b/src/data/manualContent.js
@@ -365,6 +365,16 @@ const USER_MANUAL = {
                     ],
                     tips: ['**불량 수량**을 넣은 줄은 저장할 때 **품질관리 → 공정관리 불량 기록**으로 함께 남습니다(검사수량 = 양품 + 불량, 상태 NG가 있으면 조건부 합격). 다시 저장하면 같은 기록이 고쳐지고, 불량을 지우거나 줄을 지우면 그 기록도 지워집니다.'],
                     cautions: ['한 작업장·한 날짜에 한 장입니다. 저장하지 않고 날짜·작업장을 바꾸면 확인을 묻습니다.']
+                },
+                {
+                    title: '스마트폰·태블릿에서 쓰기',
+                    image: 'inspect-log-mobile.webp', caption: '스마트폰 화면: 작업 한 건 = 카드 한 장, 중량 칸은 크게, 아래쪽 고정 저장 버튼',
+                    steps: [
+                        '폭이 좁은 화면(스마트폰·세로 태블릿)에서는 표 대신 **작업 한 건 = 카드 한 장**으로 보입니다. 가로로 돌리거나 PC 크기가 되면 자동으로 표로 바뀌고, 입력한 내용은 그대로입니다.',
+                        '초물·중물·종물 중량 칸은 크게 나오고 **숫자 키패드**가 뜹니다. 기준을 벗어나면 칸이 빨갛게 바뀝니다.',
+                        '카드 맨 아래 `＋ 작업 추가`로 다음 작업을 더하고, 화면 아래에 고정된 `💾 저장` 버튼으로 언제든 저장합니다(저장 안 한 변경이 있으면 `● 저장 안 한 변경`).',
+                        '포장수율표도 같은 방식입니다: 포장 작업 카드에서 공정마다 시간(목록에서 1h·2h20·30m 등을 고르거나 입력)과 인원을 넣으면 카드 아래에 합계·인시·생산성이 바로 나옵니다.'
+                    ]
                 }
             ]
         },

diff --git a/CLAUDE.md b/CLAUDE.md
@@ -129,7 +129,7 @@ npm run preview
   - 건물은 환경설정 → 마스터 기준정보에서 거점별로 등록하며, `wms_locations`에 `"거점 / 건물"` 이름으로 저장됩니다. 건물 없는 `"거점"` 위치는 '건물 미지정' 재고입니다.
   - 위치 선택 드롭다운은 `locationOptionsHtml`(거점별 optgroup)을 씁니다. 조회 필터는 `locationFilterOptionsHtml`와 `matchesLocationFilter`를 씁니다(`"@거점"`이면 그 거점 전체).
   - 원료수불부의 지역은 거점 단위 `김포`/`본사` 두 개이며 `rawLedgerRegionOf(location)`로 매핑합니다(방산캠프 → 본사, 김포2공장 → 김포). 예전 전표·QR의 `방산`·`김포2`는 `normalizeRawRegion`이 바꿉니다.
-- **초·중·종물 검사 및 작업일지 · 포장수율표**(메뉴 생산업무 → `검사·수율 양식` 묶음, 탭 `inspectLog`·`yieldLog`, `components/WorkForms.js` 공통 틀 `renderFormShell`, `services/workForms.js`, DB `wms_work_forms` `supabase/auth/48_work_forms.sql`(kind INSPECT_LOG·YIELD, 작업장 `FORM_SITES`·날짜마다 한 장, id `<kind>:<작업장>:<날짜>`), 로컬 `daelim_work_forms`): 포장부 종이 양식을 옮긴 것. 초·중·종물 = 줄마다 라인·작업시간·작업자·제품·용량·원료명·Lot·비중·기준중량(`stdWeightOf` = 비중 × mL)·초물/중물/종물 중량 3회(`weightOk` 기준 ± 허용%, 기본 2)·상태 OK/NG·제품 Lot·양품/BOX·불량/유형; 불량 있는 줄은 저장 때 `upsertQc`로 공정관리 불량 기록 `QCW-<날짜>-<작업장>-<줄id>`(불량 지우면 삭제). 수율표 = 작업조건 온습도, 포장 줄의 공정(`STEPS`)별 시간(`parseDuration`: 1h·2h20·30m·1:30)·인원 → 합계 시간·인시·EA/인시, 라벨작업·기타작업. 결재 `FORM:<kind>:<작업장>:<날짜>`(초·중·종물 작성·검토·부서장), 가로 A4 인쇄, `직전 작성일 불러오기`. 다시 그릴 때마다 새 요소에 그림(입력 이벤트 중복 방지).
+- **초·중·종물 검사 및 작업일지 · 포장수율표**(메뉴 생산업무 → `검사·수율 양식` 묶음, 탭 `inspectLog`·`yieldLog`, `components/WorkForms.js` 공통 틀 `renderFormShell`, `services/workForms.js`, DB `wms_work_forms` `supabase/auth/48_work_forms.sql`(kind INSPECT_LOG·YIELD, 작업장 `FORM_SITES`·날짜마다 한 장, id `<kind>:<작업장>:<날짜>`), 로컬 `daelim_work_forms`): 포장부 종이 양식을 옮긴 것. 초·중·종물 = 줄마다 라인·작업시간·작업자·제품·용량·원료명·Lot·비중·기준중량(`stdWeightOf` = 비중 × mL)·초물/중물/종물 중량 3회(`weightOk` 기준 ± 허용%, 기본 2)·상태 OK/NG·제품 Lot·양품/BOX·불량/유형; 불량 있는 줄은 저장 때 `upsertQc`로 공정관리 불량 기록 `QCW-<날짜>-<작업장>-<줄id>`(불량 지우면 삭제). 수율표 = 작업조건 온습도, 포장 줄의 공정(`STEPS`)별 시간(`parseDuration`: 1h·2h20·30m·1:30)·인원 → 합계 시간·인시·EA/인시, 라벨작업·기타작업. 결재 `FORM:<kind>:<작업장>:<날짜>`(초·중·종물 작성·검토·부서장), 가로 A4 인쇄, `직전 작성일 불러오기`. 다시 그릴 때마다 새 요소에 그림(입력 이벤트 중복 방지). **스마트폰·태블릿**(폭 < 1024px, `MOBILE_MQ`, `api.mobile`)은 표 대신 카드(작업 한 건 = 카드, 큰 입력 칸 `mCls`, 숫자 키패드 `inputmode`, 시간 제안 목록 `yl-times`) + 아래 고정 저장 줄 `#wf-mbar`; 폭이 바뀌면(`matchMedia change`) 다시 그림. 카드·표는 같은 `data-r`/`data-k`라 입력 처리 공용, 수율표는 구역 `[data-sec]`별로 묶음, 중량 칸 색은 `data-base` + 색.
 - 제품생산/입고의 **불량 발생 반영**(`#defect-panel`, `ProductionManager.js`): `생산 수량` = 양품(입고). 불량 유형별 수량(유형 = 공정관리 CFG)·공정·처리·판정·원인·조치를 적으면 처리 후 `saveQc('INSPECT', { area: 'PROCESS', inspectedQty: 양품 + 불량, source: 'production', prodId })`로 품질 불량 기록을 남기고 생산 기록 비고에 `[불량 n …]`. `불량품에 들어간 원료·부자재도 차감`(기본 켬)이면 원부자재 사용량 계산 기준 `consumeBaseQty()` = 양품 + 불량. 재고에는 양품만.
 - 제품생산/입고의 **라벨부착**(prodType `라벨부착`, `ProductionManager.js`): 라벨부착 용기(부자재 용기류) 입고 + 무라벨 용기·라벨을 투입 부자재(개당 1개, `la-fill`)로 차감 → 자재수불부. `la-log`면 제조일자 업무일지(`la-site`)의 `labeling`에 줄 추가(`source: 'prod-label'`, 공수 = 총시간 ÷ 7.5). 업무일지 labeling 줄은 `applyGimpoLogToInventory`가 재고에 반영하지 않으므로 이중 반영 없음. 새 재고 행 분류는 품목 분류(부자재).
 - 생산 입고(`processProductionInbound`)는 원료수불부를 자동으로 기입합니다. 원료·원액을 투입하면 '사용' 전표가, 원액을 생산하면 '입고' 전표가 생깁니다. 수량은 L 기준이며, KG/G 단위는 최신 비중(SG)으로 환산합니다. 재고량은 원료명과 지역별로 누적됩니다. 
